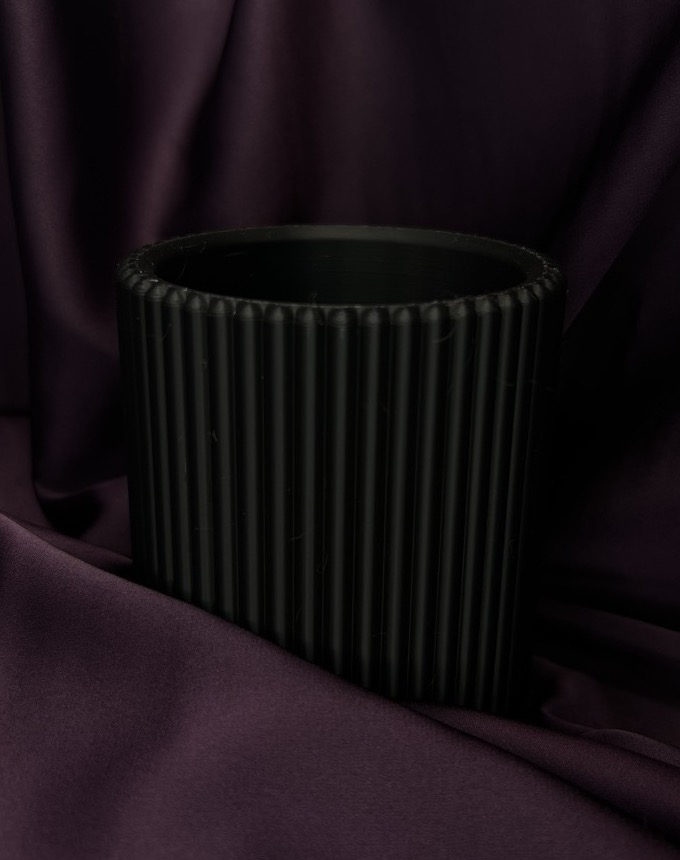
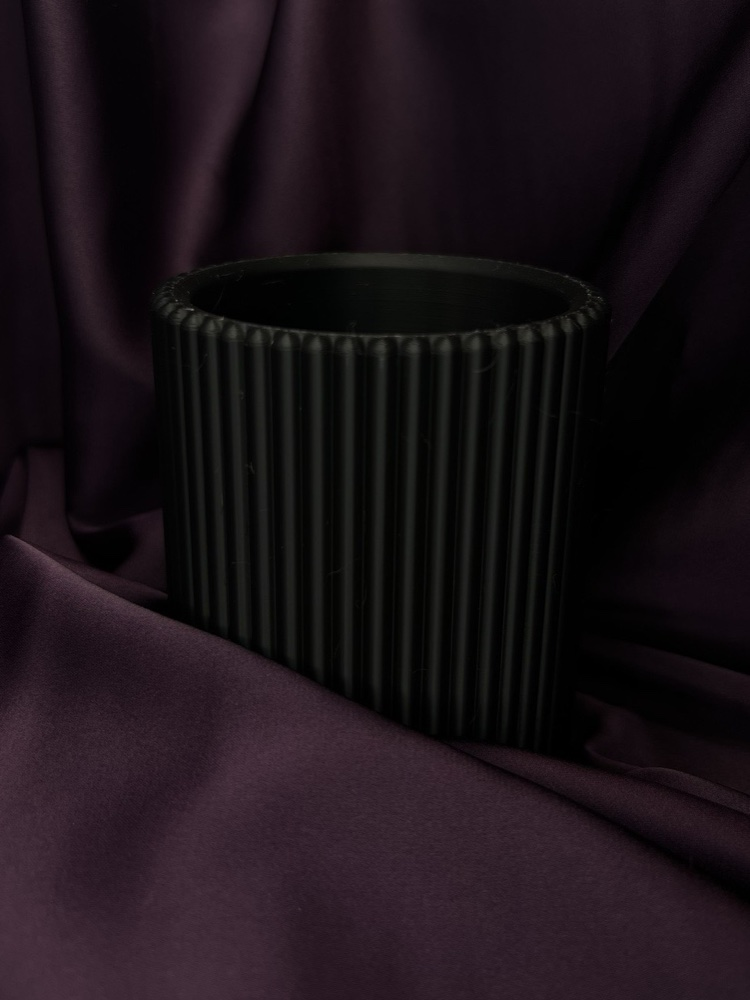
Jednolita skala zdjęć produktów w kadrze 3:4 i pionowa mydelniczka

diff --git a/index.html b/index.html
@@ -114,9 +114,9 @@
         <p data-i18n="preorder.desc">Po akceptacji wyceny opłacasz zamówienie, a dopiero wtedy rozpoczynamy realizację (ok. 2 tygodnie).</p>
       </div>
       <div class="products-grid" id="products-grid">
-        <div class="product-card" data-product-id="lipstick_case" data-images="/assets/shop-photos/IMG_3058-kopia.jpg?v=20261031c|/assets/products/lipstick-case-fuchsia.jpg?v=20261031c|/assets/shop-photos/IMG_3065-kopia.jpg?v=20261031c">
+        <div class="product-card" data-product-id="lipstick_case" data-images="/assets/shop-photos/IMG_3058-kopia.jpg?v=20261031d|/assets/products/lipstick-case-fuchsia.jpg?v=20261031d|/assets/shop-photos/IMG_3065-kopia.jpg?v=20261031d">
           <div class="product-img product-photo">
-            <img src="/assets/shop-photos/IMG_3058-kopia.jpg?v=20261031c" alt="Etui na pomadkę">
+            <img src="/assets/shop-photos/IMG_3058-kopia.jpg?v=20261031d" alt="Etui na pomadkę">
             <span class="product-badge" data-i18n="shop.discount">Nowość</span>
           </div>
           <div class="product-info">
@@ -126,9 +126,9 @@
             <a href="mailto:xinfilleu@gmail.com?subject=Zamówienie:%20Etui%20na%20pomadkę" class="btn-buy-model" data-i18n="shop.buy">Zamów</a>
           </div>
         </div>
-        <div class="product-card" data-product-id="supplement_box" data-images="/assets/shop-photos/IMG_3385.jpg?v=20261031c|/assets/shop-photos/IMG_3362.jpg?v=20261031c">
+        <div class="product-card" data-product-id="supplement_box" data-images="/assets/shop-photos/IMG_3385.jpg?v=20261031d|/assets/shop-photos/IMG_3362.jpg?v=20261031d">
           <div class="product-img product-photo">
-            <img src="/assets/shop-photos/IMG_3385.jpg?v=20261031c" alt="Pudełko na suplementy">
+            <img src="/assets/shop-photos/IMG_3385.jpg?v=20261031d" alt="Pudełko na suplementy">
             <span class="product-badge" data-i18n="shop.discount">Nowość</span>
           </div>
           <div class="product-info">
@@ -138,9 +138,9 @@
             <a href="mailto:xinfilleu@gmail.com?subject=Zamówienie:%20Pudełko%20na%20suplementy" class="btn-buy-model" data-i18n="shop.buy">Zamów</a>
           </div>
         </div>
-        <div class="product-card" data-product-id="pen_holder" data-images="/assets/shop-photos/IMG_3374.jpg?v=20261031c|/assets/shop-photos/IMG_3319.jpg?v=20261031c|/assets/shop-photos/IMG_3285.jpg?v=20261031c">
+        <div class="product-card" data-product-id="pen_holder" data-images="/assets/shop-photos/IMG_3374.jpg?v=20261031d|/assets/shop-photos/IMG_3319.jpg?v=20261031d|/assets/shop-photos/IMG_3285.jpg?v=20261031d">
           <div class="product-img product-photo">
-            <img src="/assets/shop-photos/IMG_3374.jpg?v=20261031c" alt="Organizer na długopisy">
+            <img src="/assets/shop-photos/IMG_3374.jpg?v=20261031d" alt="Organizer na długopisy">
             <span class="product-badge" data-i18n="shop.discount">Nowość</span>
           </div>
           <div class="product-info">
@@ -150,9 +150,9 @@
             <a href="mailto:xinfilleu@gmail.com?subject=Zamówienie:%20Organizer%20na%20długopisy" class="btn-buy-model" data-i18n="shop.buy">Zamów</a>
           </div>
         </div>
-        <div class="product-card" data-product-id="cotton_holder" data-images="/assets/shop-photos/IMG_3376.jpg?v=20261031c|/assets/shop-photos/IMG_3346.jpg?v=20261031c|/assets/shop-photos/IMG_3300.jpg?v=20261031c">
+        <div class="product-card" data-product-id="cotton_holder" data-images="/assets/shop-photos/IMG_3376.jpg?v=20261031d|/assets/shop-photos/IMG_3346.jpg?v=20261031d|/assets/shop-photos/IMG_3300.jpg?v=20261031d">
           <div class="product-img product-photo">
-            <img src="/assets/shop-photos/IMG_3376.jpg?v=20261031c" alt="Podajnik na płatki kosmetyczne">
+            <img src="/assets/shop-photos/IMG_3376.jpg?v=20261031d" alt="Podajnik na płatki kosmetyczne">
             <span class="product-badge" data-i18n="shop.discount">Nowość</span>
           </div>
           <div class="product-info">
@@ -162,9 +162,9 @@
             <a href="mailto:xinfilleu@gmail.com?subject=Zamówienie:%20Podajnik%20na%20płatki" class="btn-buy-model" data-i18n="shop.buy">Zamów</a>
           </div>
         </div>
-        <div class="product-card" data-product-id="square_vase" data-images="/assets/shop-photos/IMG_3399.jpg?v=20261031c|/assets/shop-photos/IMG_3337.jpg?v=20261031c">
+        <div class="product-card" data-product-id="square_vase" data-images="/assets/shop-photos/IMG_3399.jpg?v=20261031d|/assets/shop-photos/IMG_3337.jpg?v=20261031d">
           <div class="product-img product-photo">
-            <img src="/assets/shop-photos/IMG_3399.jpg?v=20261031c" alt="Pojemnik kwadratowy">
+            <img src="/assets/shop-photos/IMG_3399.jpg?v=20261031d" alt="Pojemnik kwadratowy">
             <span class="product-badge" data-i18n="shop.discount">Nowość</span>
           </div>
           <div class="product-info">
@@ -174,9 +174,9 @@
             <a href="mailto:xinfilleu@gmail.com?subject=Zamówienie:%20Pojemnik%20kwadratowy" class="btn-buy-model" data-i18n="shop.buy">Zamów</a>
           </div>
         </div>
-        <div class="product-card" data-product-id="soap_dish" data-images="/assets/shop-photos/IMG_3406.jpg?v=20261031c|/assets/shop-photos/IMG_3329.jpg?v=20261031c">
+        <div class="product-card" data-product-id="soap_dish" data-images="/assets/shop-photos/IMG_3406.jpg?v=20261031d|/assets/shop-photos/IMG_3330.jpg?v=20261031d">
           <div class="product-img product-photo">
-            <img src="/assets/shop-photos/IMG_3406.jpg?v=20261031c" alt="Podstawka / mydelniczka">
+            <img src="/assets/shop-photos/IMG_3406.jpg?v=20261031d" alt="Podstawka / mydelniczka">
             <span class="product-badge" data-i18n="shop.discount">Nowość</span>
           </div>
           <div class="product-info">
@@ -186,9 +186,9 @@
             <a href="mailto:xinfilleu@gmail.com?subject=Zamówienie:%20Mydelniczka" class="btn-buy-model" data-i18n="shop.buy">Zamów</a>
           </div>
         </div>
-        <div class="product-card" data-product-id="flower_vase" data-images="/assets/shop-photos/IMG_3414.jpg?v=20261031c|/assets/shop-photos/IMG_3313.jpg?v=20261031c|/assets/shop-photos/IMG_3293.jpg?v=20261031c">
+        <div class="product-card" data-product-id="flower_vase" data-images="/assets/shop-photos/IMG_3414.jpg?v=20261031d|/assets/shop-photos/IMG_3313.jpg?v=20261031d|/assets/shop-photos/IMG_3293.jpg?v=20261031d">
           <div class="product-img product-photo">
-            <img src="/assets/shop-photos/IMG_3414.jpg?v=20261031c" alt="Wazon na kwiaty">
+            <img src="/assets/shop-photos/IMG_3414.jpg?v=20261031d" alt="Wazon na kwiaty">
             <span class="product-badge" data-i18n="shop.discount">Nowość</span>
           </div>
           <div class="product-info">
@@ -211,9 +211,9 @@
         <p class="section-subtitle" data-i18n="models.subtitle">Kup plik STL lub 3MF i wydrukuj na swojej drukarce 3D</p>
       </div>
       <div class="products-grid" id="models-grid">
-        <div class="product-card model-card" data-product-id="lipstick_case" data-images="/assets/shop-photos/IMG_3058-kopia.jpg?v=20261031c|/assets/products/lipstick-case-fuchsia.jpg?v=20261031c|/assets/shop-photos/IMG_3065-kopia.jpg?v=20261031c">
+        <div class="product-card model-card" data-product-id="lipstick_case" data-images="/assets/shop-photos/IMG_3058-kopia.jpg?v=20261031d|/assets/products/lipstick-case-fuchsia.jpg?v=20261031d|/assets/shop-photos/IMG_3065-kopia.jpg?v=20261031d">
           <div class="product-img product-photo">
-            <img src="/assets/shop-photos/IMG_3058-kopia.jpg?v=20261031c" alt="Etui na pomadkę — model">
+            <img src="/assets/shop-photos/IMG_3058-kopia.jpg?v=20261031d" alt="Etui na pomadkę — model">
           </div>
           <div class="product-info">
             <h3 data-i18n="models.lipstick_case_title">Etui na pomadkę — model</h3>
@@ -223,9 +223,9 @@
             <a href="mailto:xinfilleu@gmail.com?subject=Kup%20model:%20Etui%20na%20pomadkę" class="btn-buy-model" data-i18n="models.buy">Kup model</a>
           </div>
         </div>
-        <div class="product-card model-card" data-product-id="supplement_box" data-images="/assets/shop-photos/IMG_3385.jpg?v=20261031c|/assets/shop-photos/IMG_3362.jpg?v=20261031c">
+        <div class="product-card model-card" data-product-id="supplement_box" data-images="/assets/shop-photos/IMG_3385.jpg?v=20261031d|/assets/shop-photos/IMG_3362.jpg?v=20261031d">
           <div class="product-img product-photo">
-            <img src="/assets/shop-photos/IMG_3385.jpg?v=20261031c" alt="Pudełko na suplementy — model">
+            <img src="/assets/shop-photos/IMG_3385.jpg?v=20261031d" alt="Pudełko na suplementy — model">
           </div>
           <div class="product-info">
             <h3 data-i18n="models.supplement_box_title">Pudełko na suplementy — model</h3>
@@ -235,9 +235,9 @@
             <a href="mailto:xinfilleu@gmail.com?subject=Kup%20model:%20Pudełko%20na%20suplementy" class="btn-buy-model" data-i18n="models.buy">Kup model</a>
           </div>
         </div>
-        <div class="product-card model-card" data-product-id="pen_holder" data-images="/assets/shop-photos/IMG_3374.jpg?v=20261031c|/assets/shop-photos/IMG_3319.jpg?v=20261031c|/assets/shop-photos/IMG_3285.jpg?v=20261031c">
+        <div class="product-card model-card" data-product-id="pen_holder" data-images="/assets/shop-photos/IMG_3374.jpg?v=20261031d|/assets/shop-photos/IMG_3319.jpg?v=20261031d|/assets/shop-photos/IMG_3285.jpg?v=20261031d">
           <div class="product-img product-photo">
-            <img src="/assets/shop-photos/IMG_3374.jpg?v=20261031c" alt="Organizer na długopisy — model">
+            <img src="/assets/shop-photos/IMG_3374.jpg?v=20261031d" alt="Organizer na długopisy — model">
           </div>
           <div class="product-info">
             <h3 data-i18n="models.pen_holder_title">Organizer na długopisy — model</h3>
@@ -247,9 +247,9 @@
             <a href="mailto:xinfilleu@gmail.com?subject=Kup%20model:%20Organizer%20na%20długopisy" class="btn-buy-model" data-i18n="models.buy">Kup model</a>
           </div>
         </div>
-        <div class="product-card model-card" data-product-id="cotton_holder" data-images="/assets/shop-photos/IMG_3376.jpg?v=20261031c|/assets/shop-photos/IMG_3346.jpg?v=20261031c|/assets/shop-photos/IMG_3300.jpg?v=20261031c">
+        <div class="product-card model-card" data-product-id="cotton_holder" data-images="/assets/shop-photos/IMG_3376.jpg?v=20261031d|/assets/shop-photos/IMG_3346.jpg?v=20261031d|/assets/shop-photos/IMG_3300.jpg?v=20261031d">
           <div class="product-img product-photo">
-            <img src="/assets/shop-photos/IMG_3376.jpg?v=20261031c" alt="Podajnik na płatki — model">
+            <img src="/assets/shop-photos/IMG_3376.jpg?v=20261031d" alt="Podajnik na płatki — model">
           </div>
           <div class="product-info">
             <h3 data-i18n="models.cotton_holder_title">Podajnik na płatki — model</h3>
@@ -259,9 +259,9 @@
             <a href="mailto:xinfilleu@gmail.com?subject=Kup%20model:%20Podajnik%20na%20płatki" class="btn-buy-model" data-i18n="models.buy">Kup model</a>
           </div>
         </div>
-        <div class="product-card model-card" data-product-id="square_vase" data-images="/assets/shop-photos/IMG_3399.jpg?v=20261031c|/assets/shop-photos/IMG_3337.jpg?v=20261031c">
+        <div class="product-card model-card" data-product-id="square_vase" data-images="/assets/shop-photos/IMG_3399.jpg?v=20261031d|/assets/shop-photos/IMG_3337.jpg?v=20261031d">
           <div class="product-img product-photo">
-            <img src="/assets/shop-photos/IMG_3399.jpg?v=20261031c" alt="Pojemnik kwadratowy — model">
+            <img src="/assets/shop-photos/IMG_3399.jpg?v=20261031d" alt="Pojemnik kwadratowy — model">
           </div>
           <div class="product-info">
             <h3 data-i18n="models.square_vase_title">Pojemnik kwadratowy — model</h3>
@@ -271,9 +271,9 @@
             <a href="mailto:xinfilleu@gmail.com?subject=Kup%20model:%20Pojemnik%20kwadratowy" class="btn-buy-model" data-i18n="models.buy">Kup model</a>
           </div>
         </div>
-        <div class="product-card model-card" data-product-id="soap_dish" data-images="/assets/shop-photos/IMG_3406.jpg?v=20261031c|/assets/shop-photos/IMG_3329.jpg?v=20261031c">
+        <div class="product-card model-card" data-product-id="soap_dish" data-images="/assets/shop-photos/IMG_3406.jpg?v=20261031d|/assets/shop-photos/IMG_3330.jpg?v=20261031d">
           <div class="product-img product-photo">
-            <img src="/assets/shop-photos/IMG_3406.jpg?v=20261031c" alt="Podstawka / mydelniczka — model">
+            <img src="/assets/shop-photos/IMG_3406.jpg?v=20261031d" alt="Podstawka / mydelniczka — model">
           </div>
           <div class="product-info">
             <h3 data-i18n="models.soap_dish_title">Podstawka / mydelniczka — model</h3>
@@ -283,9 +283,9 @@
             <a href="mailto:xinfilleu@gmail.com?subject=Kup%20model:%20Mydelniczka" class="btn-buy-model" data-i18n="models.buy">Kup model</a>
           </div>
         </div>
-        <div class="product-card model-card" data-product-id="flower_vase" data-images="/assets/shop-photos/IMG_3414.jpg?v=20261031c|/assets/shop-photos/IMG_3313.jpg?v=20261031c|/assets/shop-photos/IMG_3293.jpg?v=20261031c">
+        <div class="product-card model-card" data-product-id="flower_vase" data-images="/assets/shop-photos/IMG_3414.jpg?v=20261031d|/assets/shop-photos/IMG_3313.jpg?v=20261031d|/assets/shop-photos/IMG_3293.jpg?v=20261031d">
           <div class="product-img product-photo">
-            <img src="/assets/shop-photos/IMG_3414.jpg?v=20261031c" alt="Wazon na kwiaty — model">
+            <img src="/assets/shop-photos/IMG_3414.jpg?v=20261031d" alt="Wazon na kwiaty — model">
           </div>
           <div class="product-info">
             <h3 data-i18n="models.flower_vase_title">Wazon na kwiaty — model</h3>
